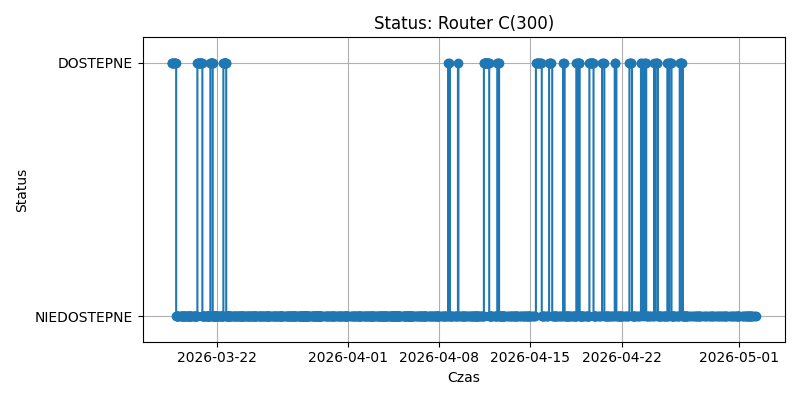
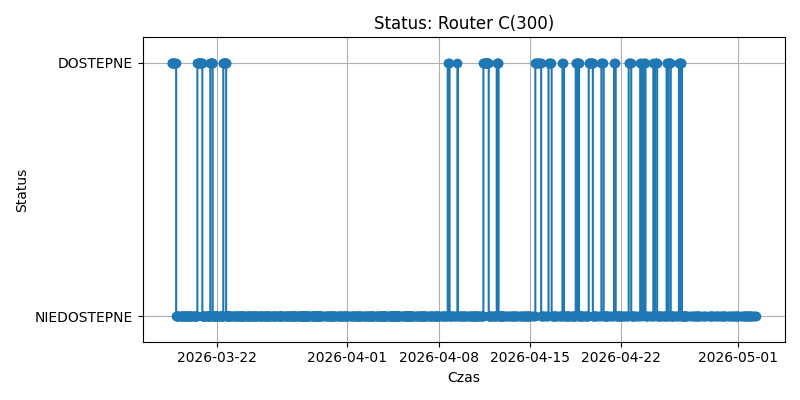
Automatyczna aktualizacja monitoringu

diff --git a/index.html b/index.html
@@ -33,5 +33,5 @@ img { border: 1px solid #ccc; border-radius: 8px; }
                 <div>Router C(300)</div>
                 <img src="chart_Router C(300).png" alt="Router C(300)" style="max-width:600px; margin-top:10px;">
             </div>
-            <p>Ostatnia zmiana: 2026-05-02 06:26:35</p>
+            <p>Ostatnia zmiana: 2026-05-02 08:08:31</p>
 </body></html>
